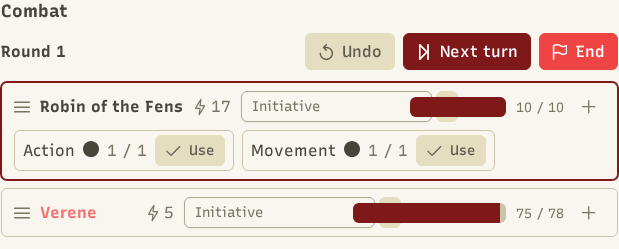
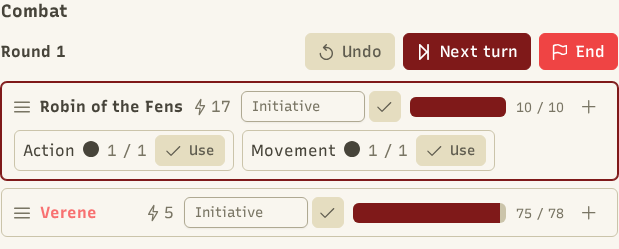
fix(combat): GM panel initiative field no longer under the life bar
The initiative input kept its natural width inside a 10rem box and spilled
over the life bar on narrow panels (the table's middle column). It now fills
its box; the doc's GM combat screenshots are retaken.

Changed region(s): [[0.4911, 0.7871, 0.6446, 0.9277], [0.5832, 0.3655, 0.7367, 0.506]]

diff --git a/src/app/modules/combat/components/combat-gm-panel/combat-gm-panel.component.scss b/src/app/modules/combat/components/combat-gm-panel/combat-gm-panel.component.scss
@@ -170,4 +170,19 @@ h4 {
   align-items: center;
   gap: 0.25rem;
   width: 10rem;
+  flex-shrink: 0;
+
+  /* the number input fills the box instead of keeping its natural ~20ch width and spilling over the life bar */
+  p-inputnumber {
+    flex: 1 1 0;
+    min-width: 0;
+  }
+  p-inputnumber ::ng-deep .p-inputnumber,
+  p-inputnumber ::ng-deep input {
+    width: 100%;
+    min-width: 0;
+  }
+  button {
+    flex-shrink: 0;
+  }
 }
